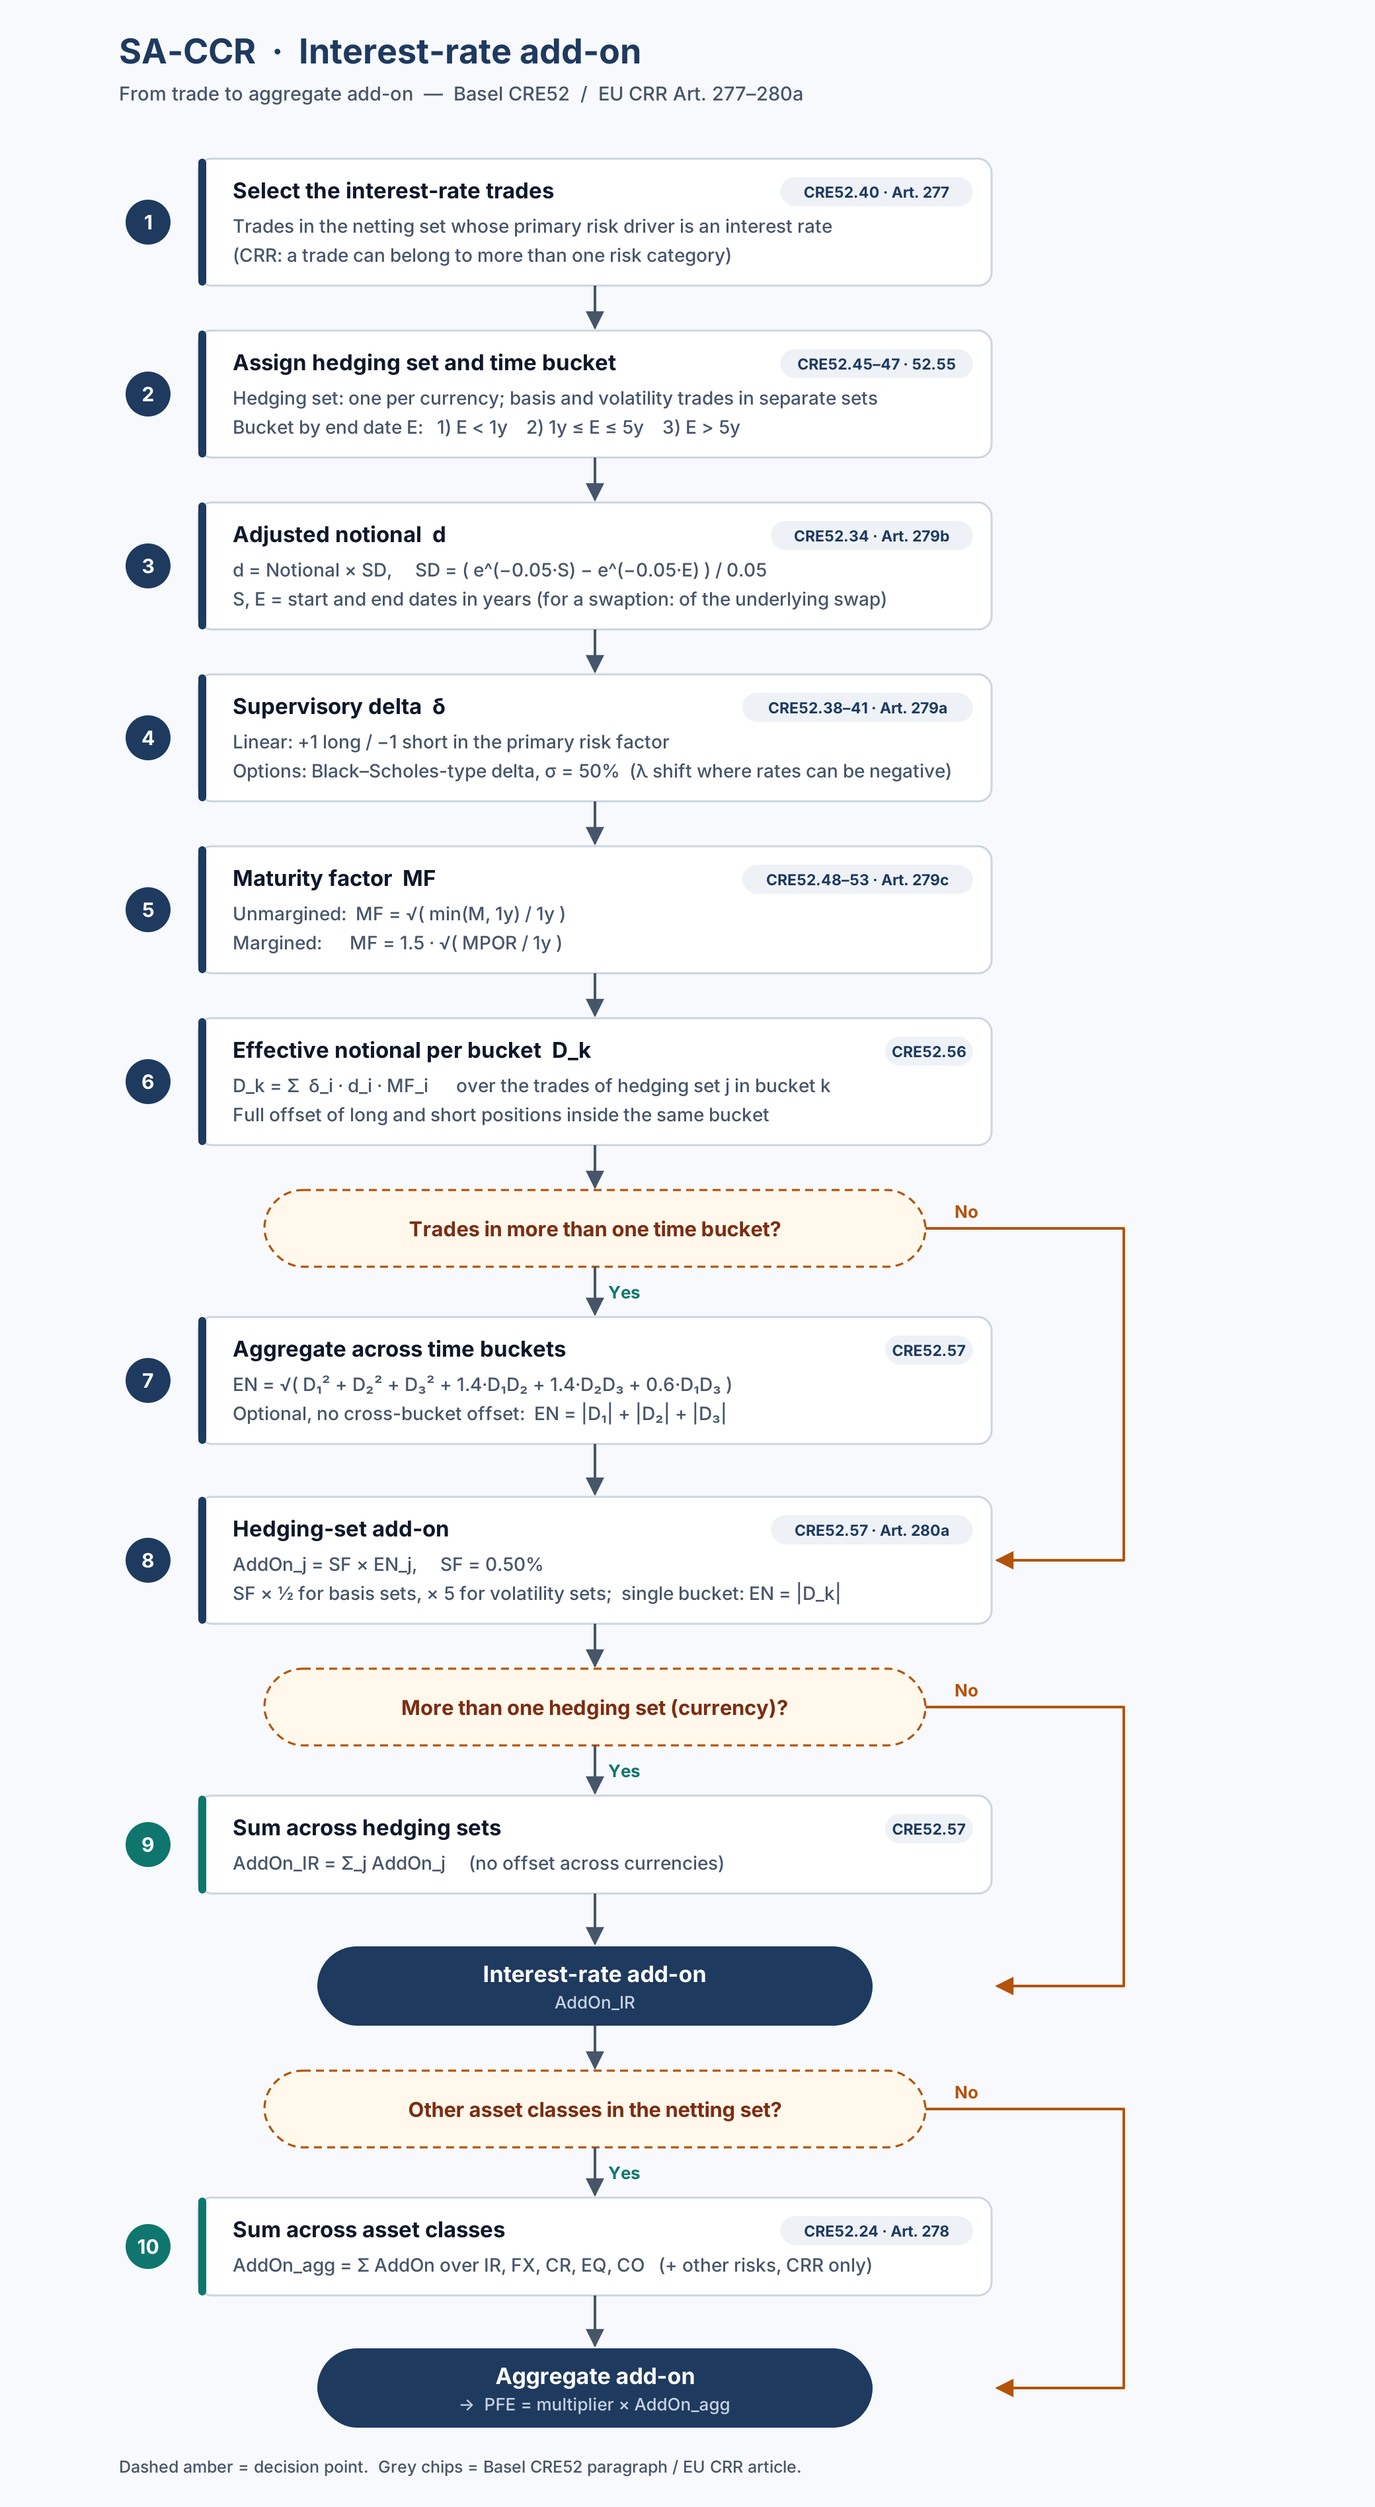
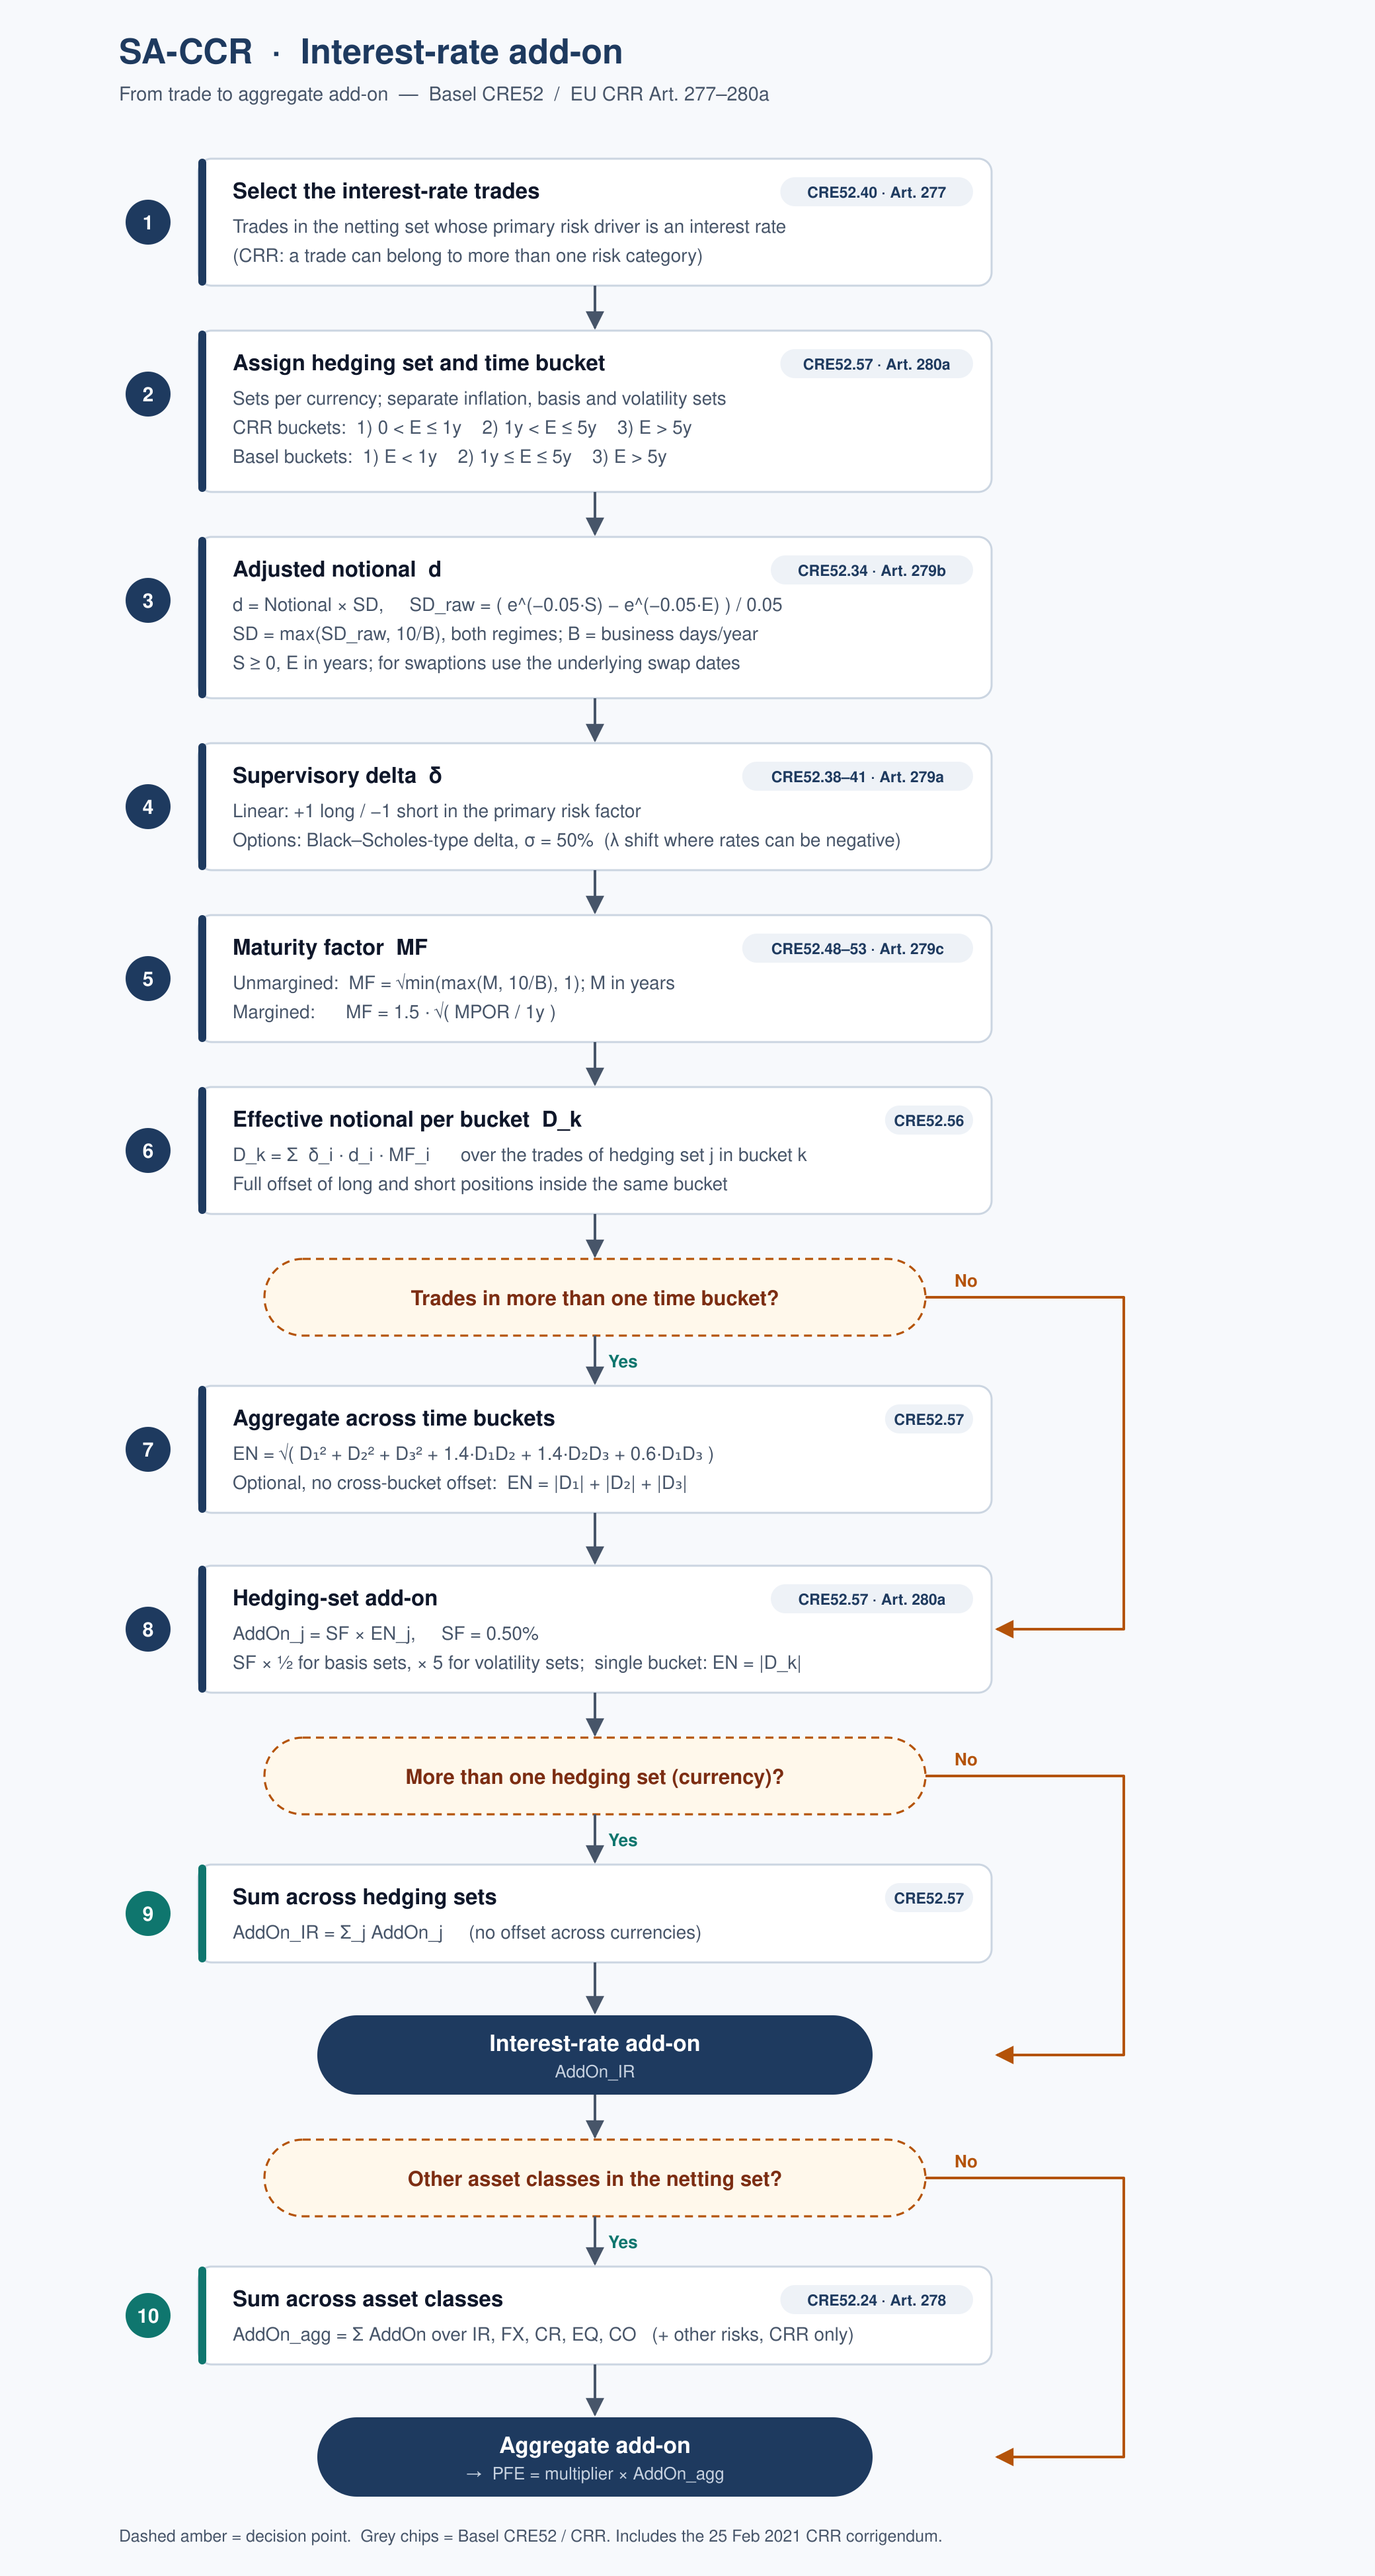
Correct template module names and IR diagram review findings
Update only template README C70; other 26 package parts are identical. Correct MF/SD floors, CRR bucket boundaries and inflation sets using primary texts, including the 2021 CRR corrigendum. Regenerate and visually inspect PNG. All 13 portable gates pass on identical clean local tree. No VBA or formula changes.

diff --git a/docs/assets/IR_DIAGRAM_SOURCES.md b/docs/assets/IR_DIAGRAM_SOURCES.md
@@ -1,0 +1,28 @@
+# IR add-on diagram corrections
+
+The SVG is the source for `SACCR_IR_AddOn_flow.png`. This documentation diagram
+does not certify the engine or replace the methodology source-register decisions.
+
+- **Supervisory duration:** Basel CRE52.34 floors SD at ten business days.
+  CRR Article 279b(1)(a) also has this floor following the corrigendum to
+  Regulation (EU) 2019/876, OJ L 65, 25 February 2021, page 66, item (14).
+  The bot's suggestion that the floor is Basel-only was therefore not adopted.
+- **Maturity factor:** CRE52.48 and CRR Article 279c(1)(a) use a ten-business-day
+  maturity floor and a one-year cap for unmargined trades. `B` denotes business
+  days in a year under the applicable convention; dates and SD are in years.
+- **Buckets:** CRE52.57 step 3 puts E < 1 year in bucket 1. CRR Article 280a,
+  Table 2, puts 0 < E <= 1 year in bucket 1 and 1 < E <= 5 in bucket 2.
+- **Inflation:** CRE52.57 FAQ1 and CRR Article 277a(1) separate inflation
+  hedging sets by currency from ordinary interest-rate hedging sets.
+
+Primary texts inspected:
+
+1. [Basel CRE52, effective 1 January 2023, published 5 June 2020](https://www.bis.org/committees/bcbs/basel-framework/standard/cre/52/inforce/2023-01-01/published/2020-06-05).
+2. [Regulation (EU) 2019/876, official legislation.gov.uk copy](https://www.legislation.gov.uk/eur/2019/876/2023-07-11?view=plain), inserted Articles 277a, 279c and 280a.
+3. [Official Journal L 65, 25 February 2021, English PDF mirror](https://urlausnir.is/skrar/Stj%C3%B3rnart%C3%AD%C3%B0indi%20ESB/2021/Stj%C3%B3rnart%C3%AD%C3%B0indi_ESB_2021_L065_EN.pdf), printed page 66, item (14), and page 67, item (16). The formula was inspected visually. EUR-Lex's consolidated text was blocked by a robot-verification page during this check.
+
+Regenerate with Inkscape:
+
+```sh
+inkscape docs/assets/SACCR_IR_AddOn_flow.svg --export-type=png --export-width=2080 --export-filename=docs/assets/SACCR_IR_AddOn_flow.png
+```

diff --git a/CHANGELOG.md b/CHANGELOG.md
@@ -254,6 +254,14 @@ Use only the categories needed by a release.
 
 ### Fixed
 
+- The IR add-on diagram includes both ten-business-day floors, separate
+  inflation hedging sets, and the distinct CRR/Basel one-year bucket boundary
+  (#77). The SD floor also applies under corrected CRR Article 279b.
+
+- The template README now lists CORE_Engine, SACCR_Formulas, CORE_Config and
+  CORE_Util, matching the renamed modules (#84). Only the C70 text changes;
+  formulas, styles, names, sheet CodeNames and all other package parts are preserved.
+
 - Fixture validation enforces quantity-specific units and rejects non-finite
   JSON numbers, including exponent overflow (#65; carries forward the unmerged
   fix from #76). The workbook gate now inspects every relationship part for
